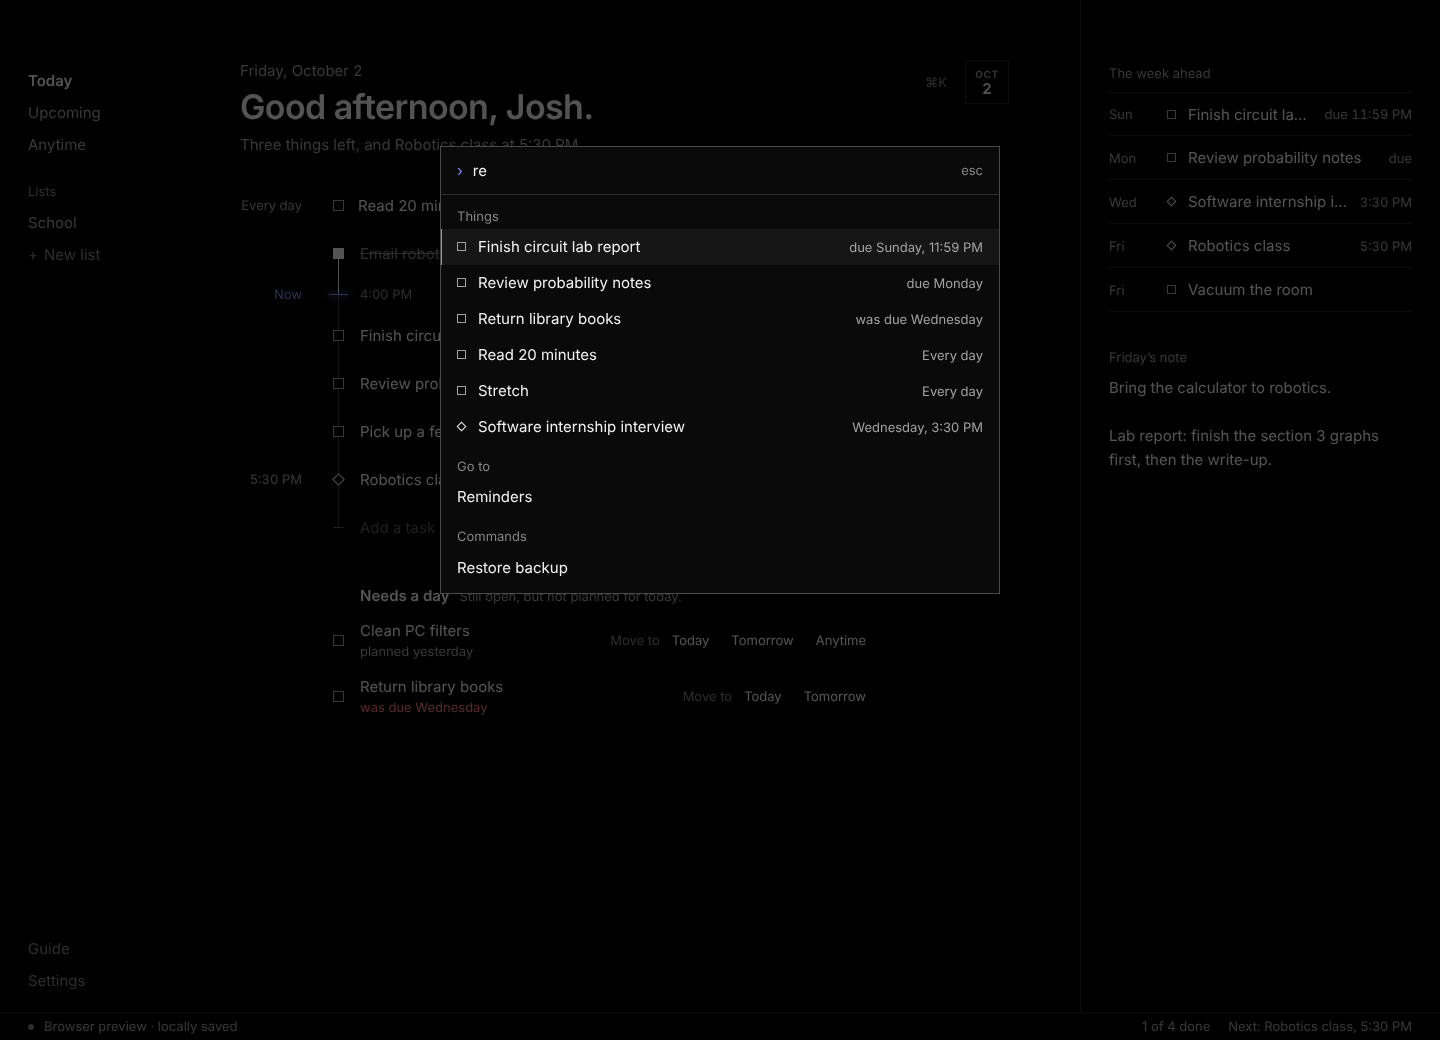
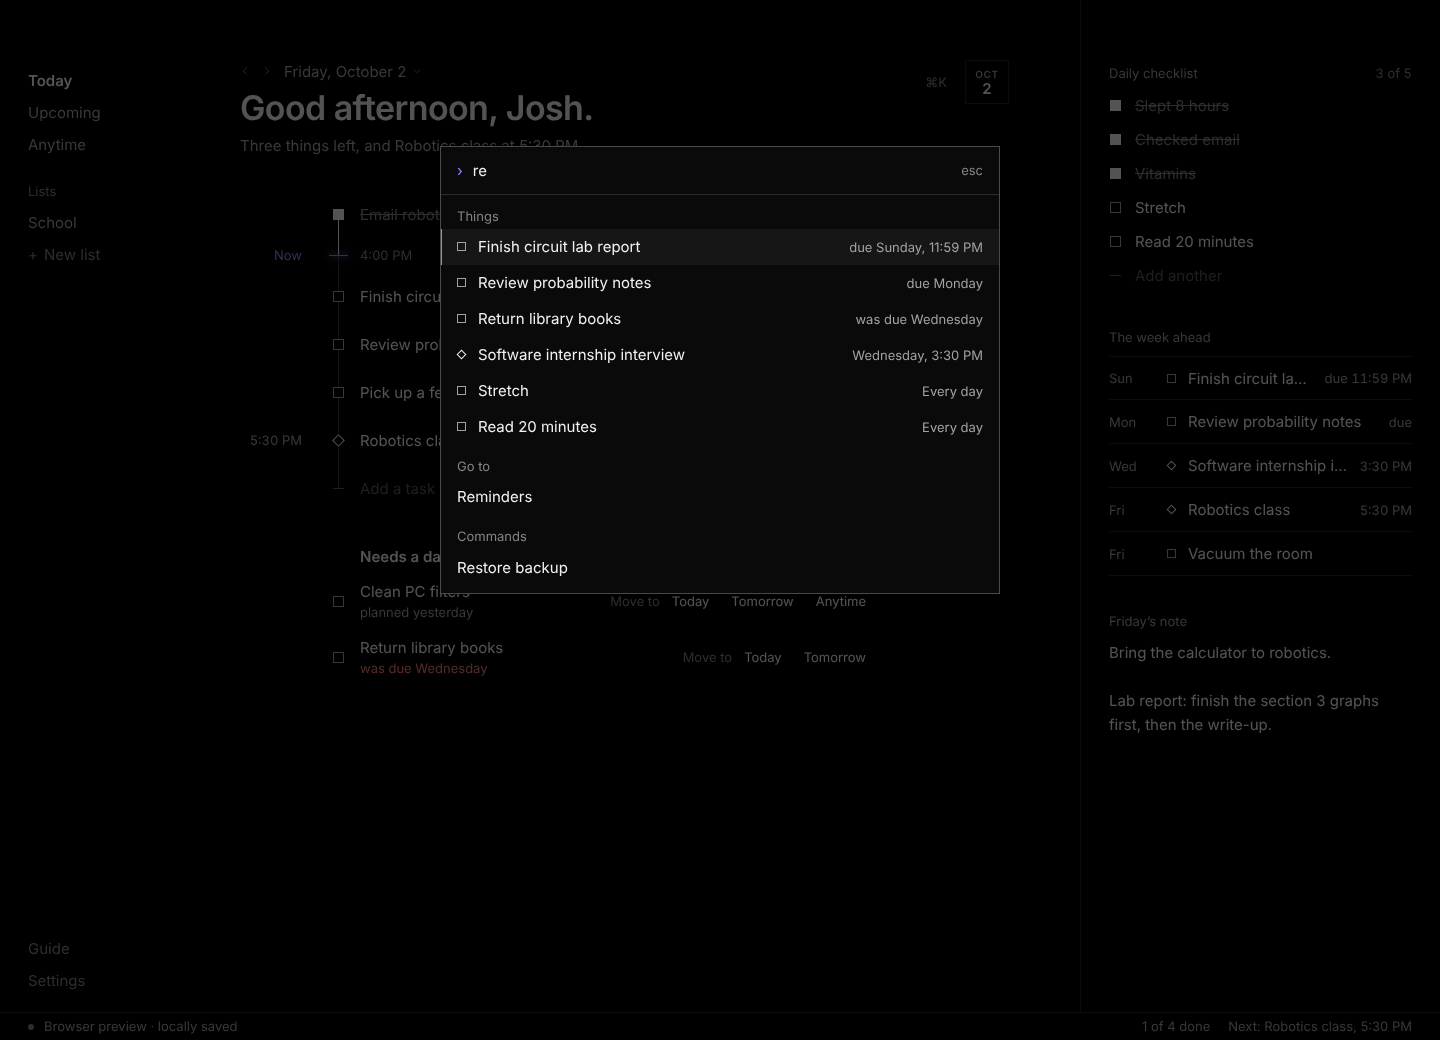
Describe the daily checklist and refresh the Today screenshots

diff --git a/README.md b/README.md
@@ -21,7 +21,8 @@ The app can:
 - Show what is coming as rows, as seven day columns, or as a month
 - Open any date as the same line that today is, to plan it or to look back
 - Move a task or an event to another day by dragging it there
-- Keep things I do every day in their own row, out of the day's count
+- Keep a daily checklist (slept 8 hours, checked email) that clears each
+  morning and stays out of the day's count
 - Hold a missed task until I decide where it goes, without moving its deadline
 - Schedule reminders with macOS so they still arrive after the app is quit
 - Store everything in a local SQLite database, with daily backups
@@ -32,9 +33,9 @@ There are no accounts and no network requests. All data stays on the Mac.
 
 ![Today in the Nightfall theme](docs/images/today-nightfall.png)
 
-Today in Nightfall. A square is a task and a diamond is an event. The "Every
-day" row above the line holds routines. "Needs a day" under the line holds
-anything still open that is not planned for today.
+Today in Nightfall. A square is a task and a diamond is an event. The daily
+checklist at the top right holds what I ask myself every day. "Needs a day"
+under the line holds anything still open that is not planned for today.
 
 ![Today in the Daylight theme](docs/images/today-daylight.png)
 
@@ -67,7 +68,7 @@ Return.
 | `robotics club every wednesday 5pm` | An event that repeats every Wednesday |
 | `club meeting every fourth wednesday` | A task on the fourth Wednesday of each month |
 | `laundry every other sunday` | A task every two weeks on Sunday |
-| `vitamins every day` | A routine in the Every day row |
+| `vitamins every day` | An item on the daily checklist |
 | `lab report due sunday 11:59pm school` | A task with a deadline, filed in my School list |
 | `SAT prep` | A task called "SAT prep" (not Saturday) |
 
@@ -87,8 +88,8 @@ Most of the work was deciding what the app should refuse to do.
    onto the line. It waits in "Needs a day" with one question, "Move to", and
    three equal answers: Today, Tomorrow, or Anytime.
 3. **Repeats do not create a backlog.** Finishing one sets up the next. A
-   repeating event I never ticked off moves to its next date by itself. A
-   daily routine simply comes back each morning.
+   repeating event I never ticked off moves to its next date by itself. The
+   daily checklist simply clears each morning.
 4. **Only two marks.** A square is a task and a diamond is an event, everywhere
    in the app. A dashed mark is a later occurrence of something that repeats.
 5. **Dates are words.** In the details, a date reads "Sunday, 11:59 PM" and is
@@ -124,7 +125,7 @@ time handling, the parser, repeats, storage and testing in more detail.
 
 | What | Count | Covers |
 |---|---:|---|
-| Date and repeat rules | 19 tests | Planned, due and reminder staying independent; daylight-saving gaps and repeats; month-end and leap-day repeats; intervals and "Nth weekday"; skipping; moving to another day; rejecting bad imports |
+| Date and repeat rules | 20 tests | Planned, due and reminder staying independent; daylight-saving gaps and repeats; month-end and leap-day repeats; intervals and "Nth weekday"; skipping; moving to another day; ticking and unticking the daily checklist; rejecting bad imports |
 | Typed-line parser | 18 tests | Dates, times, lists and repeats in different word orders; words that must not be read as dates |
 | Summaries and day files | 3 tests | The morning summary sentence and the Markdown page for a day |
 | SQLite store (Rust) | 4 tests | Reopening, refusing a stale save, keeping the old state when a save is rejected, backup rotation |

diff --git a/docs/ENGINEERING.md b/docs/ENGINEERING.md
@@ -163,12 +163,29 @@ future date at once.
 | Kind | If I do nothing |
 |---|---|
 | Repeating event (a class) | Moves to its next date by itself |
-| Daily routine (vitamins) | Comes back the next morning |
+| Daily checklist item (vitamins) | Comes back the next morning |
 | Repeating task (vacuum weekly) | Waits under "Needs a day", where I can do it or skip it |
 
 The reasoning is that nobody ticks off every class they attended, and nobody
 wants yesterday's vitamins twice, but a chore that was skipped usually still
 needs doing.
+
+## The daily checklist
+
+A checklist item is not a new kind of thing. It is a task that repeats every
+day, and the interface lists such tasks beside the line instead of on it. That
+reuse meant the checklist needed only two additions to the repeat rules.
+
+**Unticking.** Finishing a repeating task normally cannot be undone, because
+the next occurrence already exists and reopening would leave two. A checklist
+gets ticked by mistake often enough that this was not acceptable. Unticking
+finds tomorrow's copy and removes it, so there is exactly one item again.
+Renaming or deleting a ticked item reaches that copy too. Otherwise the old
+name, or the deleted item, would be back the next morning.
+
+**Order.** Each day's copy keeps the moment the item was first added. The
+list is sorted by that, so it stays in the order it was written no matter
+which items were ticked or when.
 
 ## One line for every day
 
@@ -227,7 +244,7 @@ an error instead of claiming they are all scheduled.
 
 ## Testing approach
 
-The rules layer has 40 unit tests. They run in about a tenth of a second
+The rules layer has 41 unit tests. They run in about a tenth of a second
 because they call functions directly. Tests that involve dates set a fixed
 time zone and a fixed "today", so they give the same result on any machine on
 any day.

diff --git a/docs/DESIGN.md b/docs/DESIGN.md
@@ -57,8 +57,8 @@ text to stand out.
 | Place | What it holds |
 |---|---|
 | Left column | Today, Upcoming, Anytime, then lists |
-| Centre | The Every day row, the day's line, then "Needs a day" |
-| Right column | The week ahead and a note for the day, or the details of the selected item |
+| Centre | The day's line, then "Needs a day" |
+| Right column | The daily checklist, the week ahead and a note for the day, or the details of the selected item |
 | Upcoming | The same dates as Rows, as seven Columns, or as a Month |
 | Any day | The same line as Today, for any date. Clicking the date goes straight to any day; arrows beside it step a day. |
 | Bottom | Save state, how much of today is done, and the next fixed thing |
